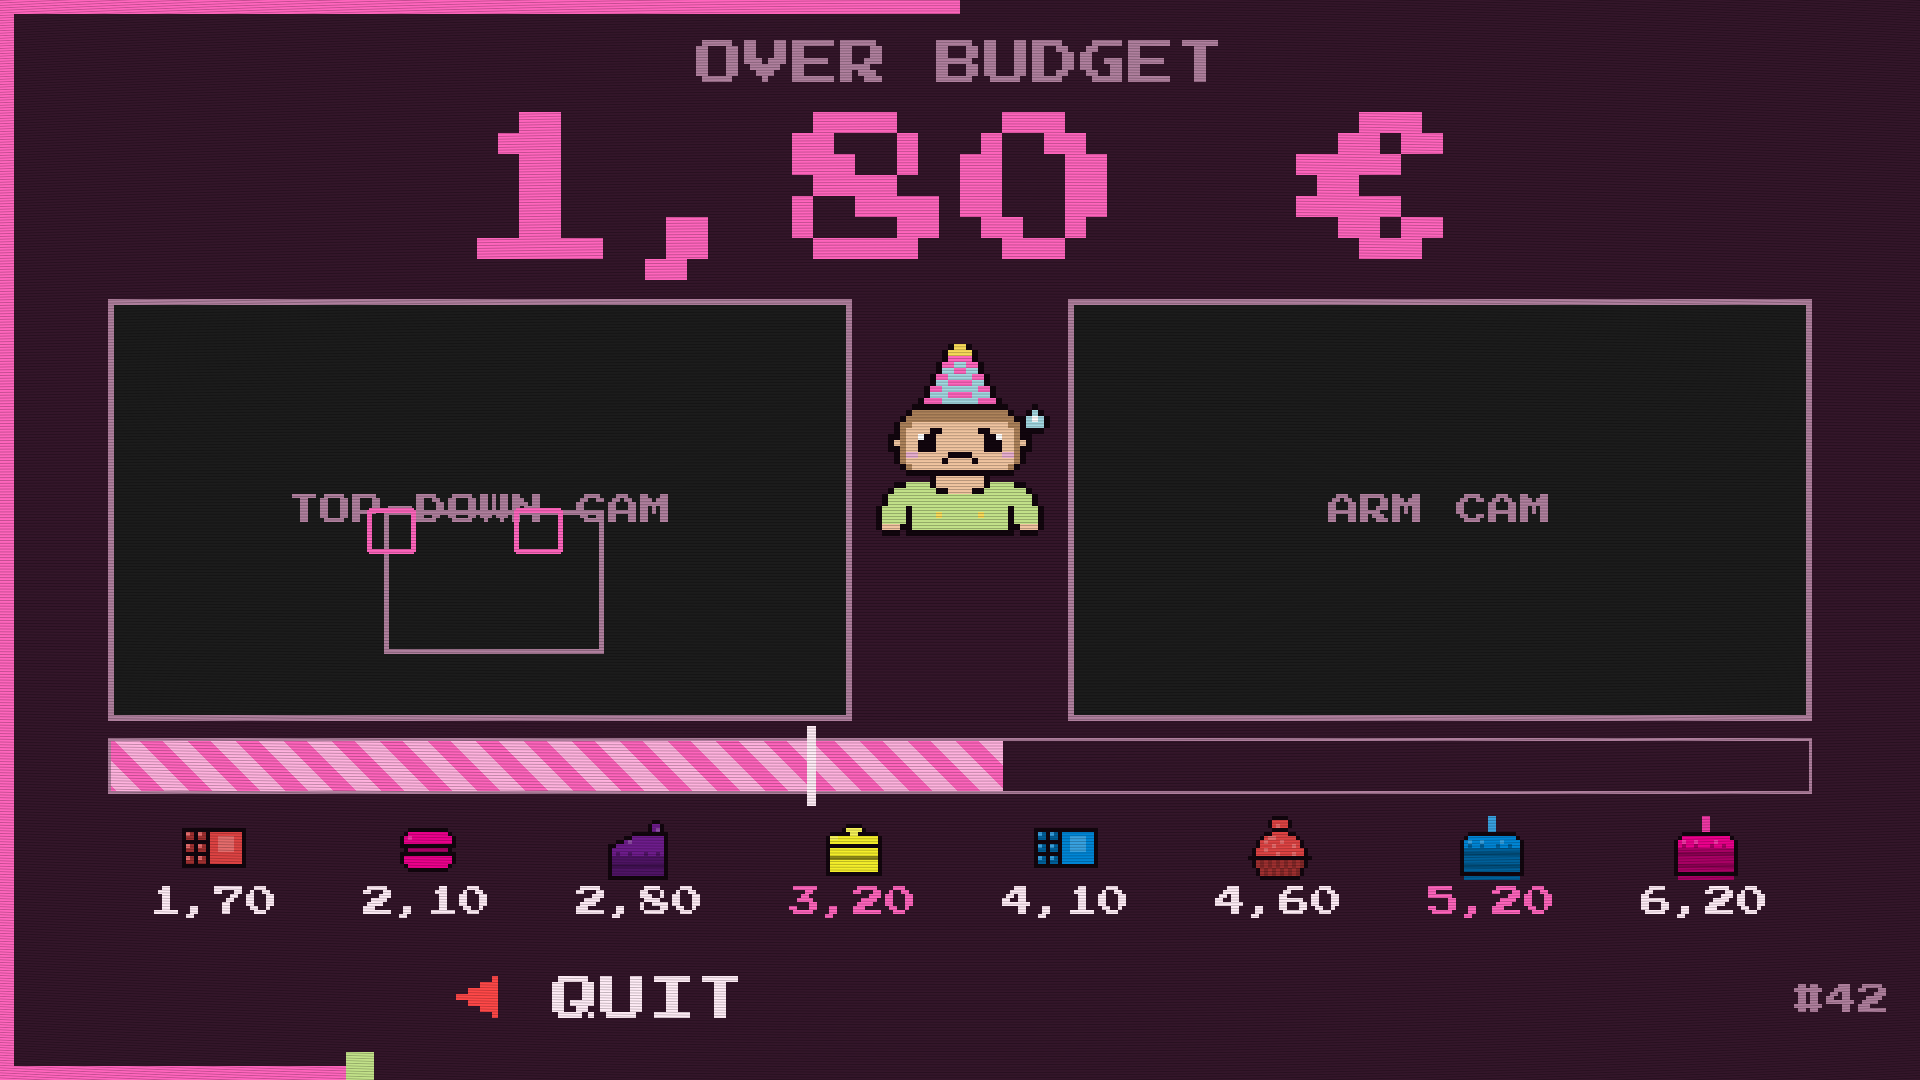
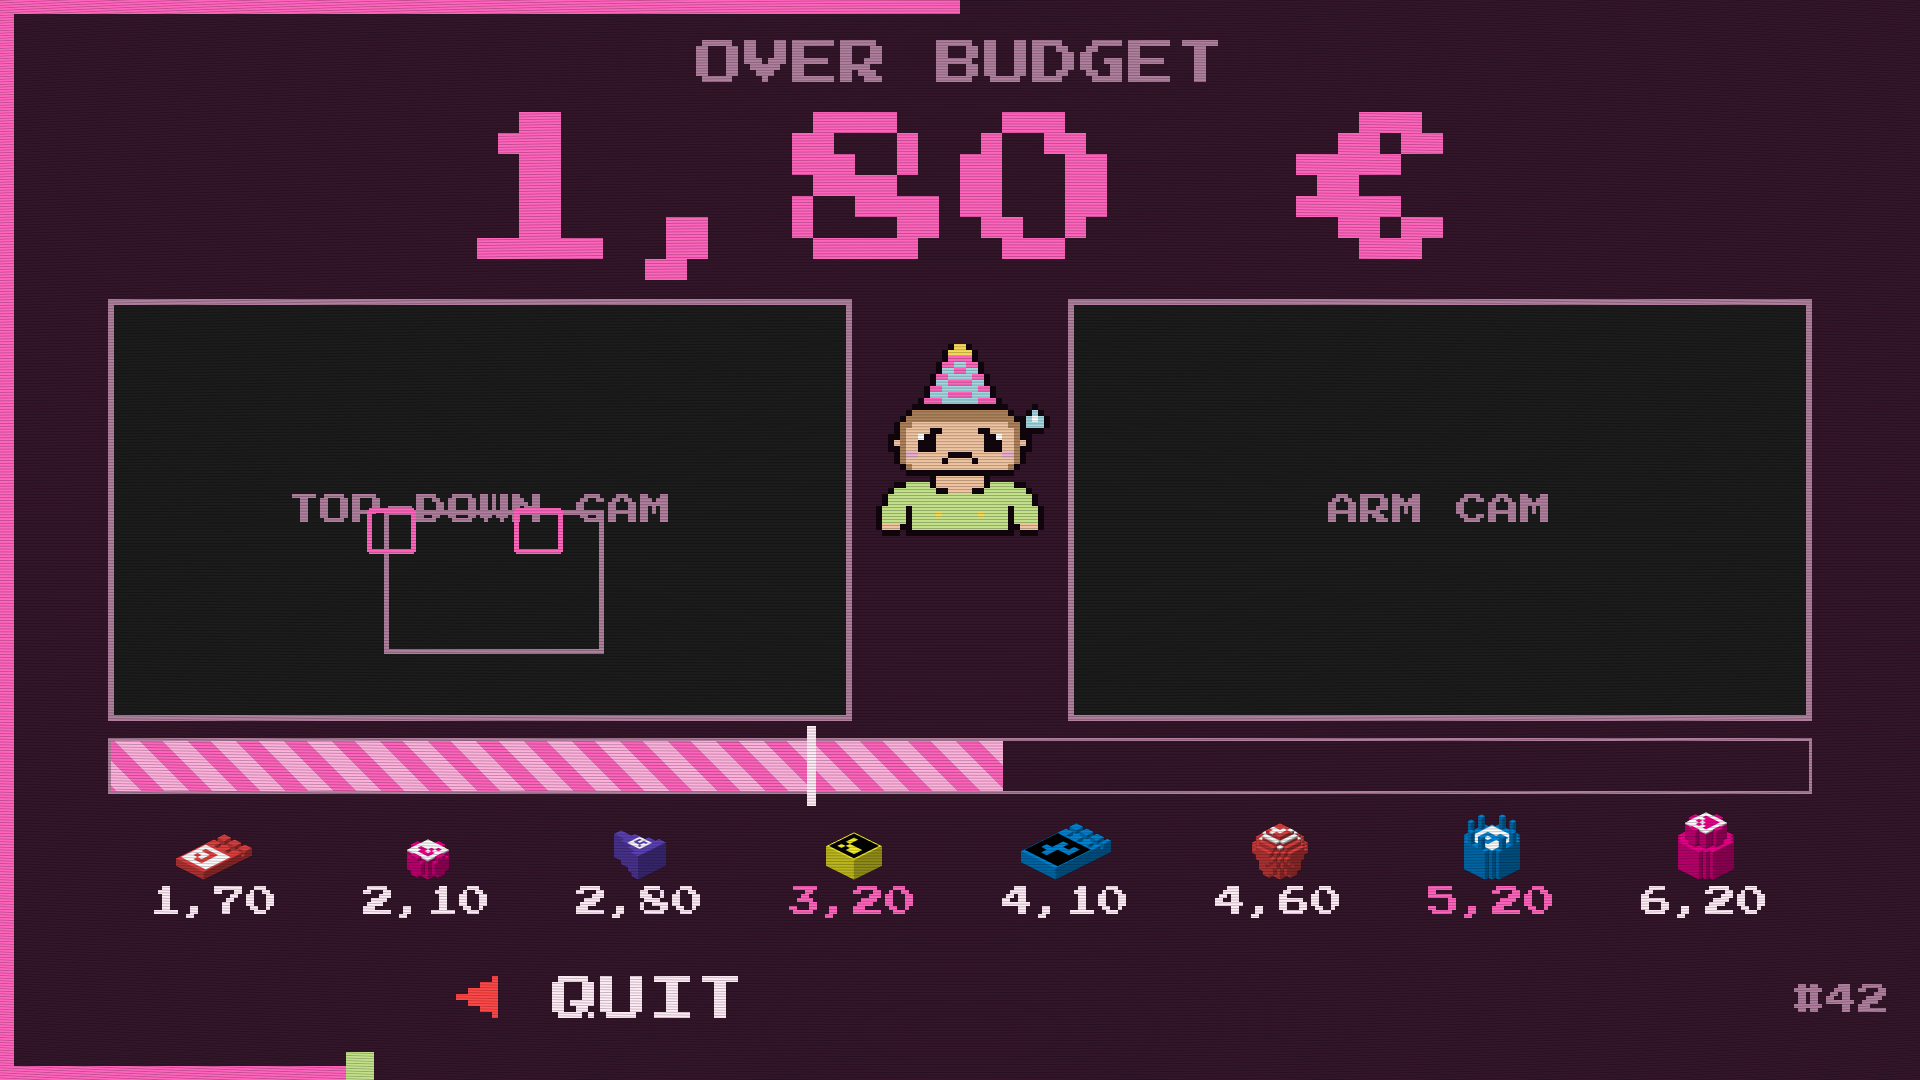
feat: price ladder, strip and pop-up show the printed treats as voxel pictures (tools/treat_pics.py), marker included

diff --git a/tools/nachdruck.py b/tools/nachdruck.py
@@ -47,101 +47,116 @@ SET = {
     "riegel_gross": (lambda: bar_big("a", "a"), "blue", "charcoal", 7, "h2c"),
     "bonbon":       (lambda: bonbon("a"), "grass_green", "charcoal", 4, "h2c"),
 }
+# Search region: the marker must stay on one level, not spill down a cone or
+# off the top tier onto the ledge 20 mm below.
+REGION = {"riegel_gross": X > -3, "torte_gross": disc(3.6), "cup_vanille": disc(3.6)}
+
+
+def register():
+    """SET into voxel's TREATS/MARKERS, so marked() builds each as printed.
+    tools/treat_pics.py needs the same, which is why this isn't script code."""
+    for name, (plan, body, cell, mid, _) in SET.items():
+        v.TREATS[name] = lambda plan=plan, body=body: solid(plan(), body)
+        v.MARKERS[name] = (mid, cell, body, REGION.get(
+            name, v.MARKERS[name][3] if name in v.MARKERS else None))
+
+
 # AMS slot order per plate
 PRINTERS = {"x1c_pink": ["hot_pink", "ivory"],
             "x1c_red": ["scarlet", "ivory"],
             "h2c": ["charcoal", "yellow", "blue", "grass_green"]}
 
-out, printer = sys.argv[1], sys.argv[2]
-EXT = PRINTERS[printer]
-plate = {k: t for k, t in SET.items() if t[4] == printer}
-objs, items, cfg, oid, grids = [], [], [], 0, {}
-for i, (name, (plan, body, cell, mid, _)) in enumerate(plate.items()):
-    px, py = 128 + (i - (len(plate) - 1) / 2) * 90, 128     # one row, 90 mm apart
-    v.TREATS[name] = lambda plan=plan, body=body: solid(plan(), body)
-    # Search region: the marker must stay on one level, not spill down a cone or
-    # off the top tier onto the ledge 20 mm below.
-    region = {"riegel_gross": X > -3, "torte_gross": disc(3.6), "cup_vanille": disc(3.6)}.get(
-        name, v.MARKERS.get(name, (0, 0, 0, None))[3] if name in v.MARKERS else None)
-    v.MARKERS[name] = (mid, cell, body, region)
-    g, c = marked(name)
-    assert found(g, mid), name
-    full = g != ""
-    print(f"{name:12} #{mid:<2} {body:8}/{cell:8} marker {6*c} mm  "
-          f"{full.any(axis=(1,2)).sum()*FINE:.0f}x{full.any(axis=(0,2)).sum()*FINE:.0f}x{g.shape[2]*FINE:.0f} mm  "
-          f"{full.sum()*FINE**3/1000:.0f} cm3")
-    grids[name] = g
-    parts = []
-    for fil in sorted(set(g[full])):
+
+def main():
+    register()
+    out, printer = sys.argv[1], sys.argv[2]
+    EXT = PRINTERS[printer]
+    plate = {k: t for k, t in SET.items() if t[4] == printer}
+    objs, items, cfg, oid, grids = [], [], [], 0, {}
+    for i, (name, (plan, body, cell, mid, _)) in enumerate(plate.items()):
+        px, py = 128 + (i - (len(plate) - 1) / 2) * 90, 128     # one row, 90 mm apart
+        g, c = marked(name)
+        assert found(g, mid), name
+        full = g != ""
+        print(f"{name:12} #{mid:<2} {body:8}/{cell:8} marker {6*c} mm  "
+              f"{full.any(axis=(1,2)).sum()*FINE:.0f}x{full.any(axis=(0,2)).sum()*FINE:.0f}x{g.shape[2]*FINE:.0f} mm  "
+              f"{full.sum()*FINE**3/1000:.0f} cm3")
+        grids[name] = g
+        parts = []
+        for fil in sorted(set(g[full])):
+            oid += 1
+            tris = mesh(g == fil)[0]
+            vv, idx = __import__("numpy").unique(tris.reshape(-1, 3), axis=0, return_inverse=True)
+            vv -= [N * VOX / 2, N * VOX / 2, 0]
+            objs.append(f'<object id="{oid}" type="model"><mesh><vertices>'
+                        + "".join(f'<vertex x="{a:g}" y="{b:g}" z="{c_:g}"/>' for a, b, c_ in vv)
+                        + "</vertices><triangles>"
+                        + "".join(f'<triangle v1="{a}" v2="{b}" v3="{c_}"/>' for a, b, c_ in idx.reshape(-1, 3))
+                        + "</triangles></mesh></object>")
+            parts.append((oid, fil))
         oid += 1
-        tris = mesh(g == fil)[0]
-        vv, idx = __import__("numpy").unique(tris.reshape(-1, 3), axis=0, return_inverse=True)
-        vv -= [N * VOX / 2, N * VOX / 2, 0]
-        objs.append(f'<object id="{oid}" type="model"><mesh><vertices>'
-                    + "".join(f'<vertex x="{a:g}" y="{b:g}" z="{c_:g}"/>' for a, b, c_ in vv)
-                    + "</vertices><triangles>"
-                    + "".join(f'<triangle v1="{a}" v2="{b}" v3="{c_}"/>' for a, b, c_ in idx.reshape(-1, 3))
-                    + "</triangles></mesh></object>")
-        parts.append((oid, fil))
-    oid += 1
-    objs.append(f'<object id="{oid}" type="model"><components>'
-                + "".join(f'<component objectid="{k}"/>' for k, _ in parts) + "</components></object>")
-    items.append(f'<item objectid="{oid}" transform="1 0 0 0 1 0 0 0 1 {px} {py} 0" printable="1"/>')
-    unit = "1 0 0 0 0 1 0 0 0 0 1 0 0 0 0 1"
-    cfg.append(f'<object id="{oid}"><metadata key="name" value="{name}_{mid}"/><metadata key="extruder" value="1"/>\n'
-               + "".join(f'<part id="{k}" subtype="normal_part"><metadata key="name" value="{f}"/>'
-                         f'<metadata key="matrix" value="{unit}"/><metadata key="extruder" value="{EXT.index(f) + 1}"/></part>\n'
-                         for k, f in parts) + "</object>\n")
-    cfg_ids = [int(o.split('"')[1]) for o in cfg]
+        objs.append(f'<object id="{oid}" type="model"><components>'
+                    + "".join(f'<component objectid="{k}"/>' for k, _ in parts) + "</components></object>")
+        items.append(f'<item objectid="{oid}" transform="1 0 0 0 1 0 0 0 1 {px} {py} 0" printable="1"/>')
+        unit = "1 0 0 0 0 1 0 0 0 0 1 0 0 0 0 1"
+        cfg.append(f'<object id="{oid}"><metadata key="name" value="{name}_{mid}"/><metadata key="extruder" value="1"/>\n'
+                   + "".join(f'<part id="{k}" subtype="normal_part"><metadata key="name" value="{f}"/>'
+                             f'<metadata key="matrix" value="{unit}"/><metadata key="extruder" value="{EXT.index(f) + 1}"/></part>\n'
+                             for k, f in parts) + "</object>\n")
+        cfg_ids = [int(o.split('"')[1]) for o in cfg]
 
-model = ('<?xml version="1.0" encoding="UTF-8"?>\n<model unit="millimeter" xml:lang="en-US" '
-         'xmlns="http://schemas.microsoft.com/3dmanufacturing/core/2015/02" '
-         'xmlns:BambuStudio="http://schemas.bambulab.com/package/2021">\n'
-         '<metadata name="Application">BambuStudio-02.07.01.62</metadata>\n'
-         '<metadata name="Title">nachdruck</metadata>\n'
-         f'<resources>{"".join(objs)}</resources>\n<build>{"".join(items)}</build>\n</model>\n')
-settings = ('<?xml version="1.0" encoding="UTF-8"?>\n<config>\n' + "".join(cfg)
-            + '<plate><metadata key="plater_id" value="1"/><metadata key="locked" value="false"/>'
-            + "".join(f'<model_instance><metadata key="object_id" value="{i}"/><metadata key="instance_id" value="0"/></model_instance>'
-                      for i in cfg_ids) + '</plate>\n</config>\n')
-project = json.dumps({"filament_colour": [hexcol(f) for f in EXT],
-                      "filament_settings_id": ["Bambu PLA Matte @BBL X1C"] * len(EXT),
-                      "filament_type": ["PLA"] * len(EXT), "version": "02.07.01.62"}, indent=4)
-with zipfile.ZipFile(out, "w", zipfile.ZIP_DEFLATED) as z:
-    z.writestr("[Content_Types].xml",
-               '<?xml version="1.0" encoding="UTF-8"?>\n<Types xmlns="http://schemas.openxmlformats.org/package/2006/content-types">'
-               '<Default Extension="rels" ContentType="application/vnd.openxmlformats-package.relationships+xml"/>'
-               '<Default Extension="model" ContentType="application/vnd.ms-package.3dmanufacturing-3dmodel+xml"/>'
-               '<Default Extension="config" ContentType="text/xml"/></Types>')
-    z.writestr("_rels/.rels",
-               '<?xml version="1.0" encoding="UTF-8"?>\n<Relationships xmlns="http://schemas.openxmlformats.org/package/2006/relationships">'
-               '<Relationship Target="/3D/3dmodel.model" Id="rel0" '
-               'Type="http://schemas.microsoft.com/3dmanufacturing/2013/01/3dmodel"/></Relationships>')
-    z.writestr("3D/3dmodel.model", model)
-    z.writestr("Metadata/model_settings.config", settings)
-    z.writestr("Metadata/project_settings.config", project)
-print("wrote", out)
+    model = ('<?xml version="1.0" encoding="UTF-8"?>\n<model unit="millimeter" xml:lang="en-US" '
+             'xmlns="http://schemas.microsoft.com/3dmanufacturing/core/2015/02" '
+             'xmlns:BambuStudio="http://schemas.bambulab.com/package/2021">\n'
+             '<metadata name="Application">BambuStudio-02.07.01.62</metadata>\n'
+             '<metadata name="Title">nachdruck</metadata>\n'
+             f'<resources>{"".join(objs)}</resources>\n<build>{"".join(items)}</build>\n</model>\n')
+    settings = ('<?xml version="1.0" encoding="UTF-8"?>\n<config>\n' + "".join(cfg)
+                + '<plate><metadata key="plater_id" value="1"/><metadata key="locked" value="false"/>'
+                + "".join(f'<model_instance><metadata key="object_id" value="{i}"/><metadata key="instance_id" value="0"/></model_instance>'
+                          for i in cfg_ids) + '</plate>\n</config>\n')
+    project = json.dumps({"filament_colour": [hexcol(f) for f in EXT],
+                          "filament_settings_id": ["Bambu PLA Matte @BBL X1C"] * len(EXT),
+                          "filament_type": ["PLA"] * len(EXT), "version": "02.07.01.62"}, indent=4)
+    with zipfile.ZipFile(out, "w", zipfile.ZIP_DEFLATED) as z:
+        z.writestr("[Content_Types].xml",
+                   '<?xml version="1.0" encoding="UTF-8"?>\n<Types xmlns="http://schemas.openxmlformats.org/package/2006/content-types">'
+                   '<Default Extension="rels" ContentType="application/vnd.openxmlformats-package.relationships+xml"/>'
+                   '<Default Extension="model" ContentType="application/vnd.ms-package.3dmanufacturing-3dmodel+xml"/>'
+                   '<Default Extension="config" ContentType="text/xml"/></Types>')
+        z.writestr("_rels/.rels",
+                   '<?xml version="1.0" encoding="UTF-8"?>\n<Relationships xmlns="http://schemas.openxmlformats.org/package/2006/relationships">'
+                   '<Relationship Target="/3D/3dmodel.model" Id="rel0" '
+                   'Type="http://schemas.microsoft.com/3dmanufacturing/2013/01/3dmodel"/></Relationships>')
+        z.writestr("3D/3dmodel.model", model)
+        z.writestr("Metadata/model_settings.config", settings)
+        z.writestr("Metadata/project_settings.config", project)
+    print("wrote", out)
 
-import pygame                                            # preview next to the 3MF
-tiles = [v.iso(g, 8 / v.SUB) for g in grids.values()]
-tiles = [t.subsurface(t.get_bounding_rect()) for t in tiles]
-sheet = pygame.Surface((sum(t.get_width() for t in tiles) + 40 * len(tiles), max(t.get_height() for t in tiles) + 40))
-sheet.fill(v.BG); x = 20
-for t in tiles:
-    sheet.blit(t, (x, sheet.get_height() - 20 - t.get_height())); x += t.get_width() + 40
-pygame.image.save(sheet, out.replace(".3mf", ".png"))
+    import pygame                                            # preview next to the 3MF
+    tiles = [v.iso(g, 8 / v.SUB) for g in grids.values()]
+    tiles = [t.subsurface(t.get_bounding_rect()) for t in tiles]
+    sheet = pygame.Surface((sum(t.get_width() for t in tiles) + 40 * len(tiles), max(t.get_height() for t in tiles) + 40))
+    sheet.fill(v.BG); x = 20
+    for t in tiles:
+        sheet.blit(t, (x, sheet.get_height() - 20 - t.get_height())); x += t.get_width() + 40
+    pygame.image.save(sheet, out.replace(".3mf", ".png"))
 
-# Height spread of the marker cells. The cupcake cones reach 10-15 mm, which
-# the 2026-09-11 simulation allows in the tray's middle (todo.md, cone limit).
-for name, g in grids.items():
-    z = np.argwhere(g == plate[name][2])[:, 2] * FINE
-    print(f"{name:12} marker cells span {z.max() - z.min():.0f} mm in height")
+    # Height spread of the marker cells. The cupcake cones reach 10-15 mm, which
+    # the 2026-09-11 simulation allows in the tray's middle (todo.md, cone limit).
+    for name, g in grids.items():
+        z = np.argwhere(g == plate[name][2])[:, 2] * FINE
+        print(f"{name:12} marker cells span {z.max() - z.min():.0f} mm in height")
 
-# Colour changes: layers (0.2 mm) that need more than one filament, and how
-# many filaments each of those has. The slicer changes k-1 times per layer.
-layers = {}
-for g in grids.values():
-    for z in range(g.shape[2]):
-        layers.setdefault(z, set()).update(set(g[:, :, z][g[:, :, z] != ""]))
-changes = sum(max(len(f) - 1, 0) for f in layers.values()) * round(FINE / 0.2)
-print(f"{printer}: {changes} filament changes at 0.2 mm layers")
+    # Colour changes: layers (0.2 mm) that need more than one filament, and how
+    # many filaments each of those has. The slicer changes k-1 times per layer.
+    layers = {}
+    for g in grids.values():
+        for z in range(g.shape[2]):
+            layers.setdefault(z, set()).update(set(g[:, :, z][g[:, :, z] != ""]))
+    changes = sum(max(len(f) - 1, 0) for f in layers.values()) * round(FINE / 0.2)
+    print(f"{printer}: {changes} filament changes at 0.2 mm layers")
+
+
+if __name__ == "__main__":
+    main()

diff --git a/game/scenes.py b/game/scenes.py
@@ -1,4 +1,5 @@
 import math
+import os
 import random
 import textwrap
 import pygame
@@ -113,6 +114,46 @@ def stamp(screen, name, scale, x, y):
     layout self-test can intercept it the same way and check for overlap."""
     s = sprite(name, scale)
     screen.blit(s, s.get_rect(center=(round(x), round(y))))
+
+
+TREAT_DIR = os.path.join(os.path.dirname(__file__), "assets", "treats")
+
+
+@lru_cache(maxsize=None)
+def _prints():
+    """The printed treats as voxel pictures (tools/treat_pics.py), by marker id."""
+    out = {}
+    for k in SPRITE:
+        try:
+            out[k] = pygame.image.load(os.path.join(TREAT_DIR, f"{k}.png"))
+        except (pygame.error, FileNotFoundError):
+            pass     # pic() falls back to the sprite
+    return out
+
+
+@lru_cache(maxsize=64)
+def _print(k, w, h):
+    """Picture #k, scaled by the ONE factor that fits the largest print of
+    the set into w x h. A shared factor keeps the torte bigger than the
+    macaron -- heavier is dearer, readable without the price."""
+    imgs = _prints()
+    f = min(w / max(i.get_width() for i in imgs.values()),
+            h / max(i.get_height() for i in imgs.values()))
+    i = imgs[k]
+    return pygame.transform.smoothscale(i, (round(i.get_width() * f), round(i.get_height() * f)))
+
+
+def pic(screen, k, w, h, x, bottom, scale):
+    """Treat #k standing on the line `bottom`, centered on x: the printed
+    object, where the visitor has to find it on the table (price ladder,
+    strip, pop-up). The sprite at `scale` if its picture is missing."""
+    if k not in _prints():
+        n = len(SHAPES[SPRITES[SPRITE[k]][0]]) * scale
+        return stamp(screen, SPRITE[k], scale, x, bottom - n / 2)
+    s = _print(k, w, h)
+    r = s.get_rect(midbottom=(round(x), round(bottom)))
+    screen.blit(s, r)
+    area(SPRITE[k], r)
 
 
 def area(name, rect):
@@ -964,7 +1005,7 @@ class GameScene(SceneBase):
             # One pop-up per change, with the net price: two treats at once
             # show "+5,10", not two boxes on top of each other.
             v = sum(VALUES[i] for i in new) - sum(VALUES[i] for i in gone)
-            self.pop = [SPRITE[min(new or gone)],
+            self.pop = [min(new or gone),
                         ("+" if v >= 0 else "-") + euro(abs(v), sign=False), 0.0]
             self.still = 0.0
             self.log("tray", add=sorted(new), off=sorted(gone), total=tray_sum(marks),
@@ -1120,8 +1161,8 @@ class GameScene(SceneBase):
         blink = int(self.clock * 4) % 2
         for i, k in enumerate(sorted(VALUES, key=VALUES.get)):
             x = self.BAR.x + self.BAR.w * (i + 0.5) / len(VALUES)
-            stamp(screen, SPRITE[k], 4, x,
-                  self.STRIP_Y + (hop(self.clock, 0, 8) if k == hint else 0))
+            pic(screen, k, 190, 68, x, self.STRIP_Y + 32
+                + (hop(self.clock, 0, 8) if k == hint else 0), 4)
             # The hinted price blinks along with the hop: 8 px alone was too
             # subtle to catch from the leader arm.
             color = ACCENT if k in self.marks else WHITE
@@ -1140,7 +1181,8 @@ class GameScene(SceneBase):
             n = per if row == 0 else len(order) - per
             x = WIDTH * (col + 0.5) / n
             y = self.LADDER_Y + row * self.LADDER_ROW
-            stamp(screen, SPRITE[k], 5, x, y)
+            # Standing on one line, so bigger print = bigger picture reads
+            pic(screen, k, 300, 110, x, y + 40, 5)
             draw(screen, f["small"], euro(VALUES[k], sign=False), x, y + 90, WHITE)
 
     def _x(self, value):
@@ -1208,9 +1250,9 @@ class GameScene(SceneBase):
         if self.phase == "play":    # in "order" his face is in the dialog
             stamp(screen, self.mood(), 6, *self.GUEST)
         if self.pop and not reading:    # would sit on the ladder / Bella
-            name, text, age = self.pop
+            k, text, age = self.pop
             rise = round(age * 20)
-            stamp(screen, name, 4, self.POP[0], self.POP[1] - rise)
+            pic(screen, k, 120, 80, self.POP[0], self.POP[1] + 32 - rise, 4)
             draw(screen, f["tiny"], text, self.POP[0], self.POP[1] + 58 - rise, ACCENT)
         if self.phase == "order":
             fuse(screen, max(0.0, self.think / THINK_SECONDS) if THINK_SECONDS else 0.0,

diff --git a/tools/treat_pics.py b/tools/treat_pics.py
@@ -1,0 +1,41 @@
+"""The printed treats as pictures for the price ladder, strip and pop-up.
+
+    uv run tools/treat_pics.py          # -> game/assets/treats/<marker id>.png
+
+The sprites were a drawing of the treat, and the visitor had to match the
+drawing to the object in their hand -- one layer too many. These are the
+objects themselves: the same voxel plans the printers got (tools/voxel.py,
+tools/nachdruck.py), marker included, because the white or black field on
+top is what tells the red bar from the red cupcake.
+
+All pictures share one scale (PX per voxel), so a bigger print is a bigger
+picture: heavier is dearer stays visible. The game scales them all by one
+factor. Takes a minute (marked() searches the largest readable marker), so
+it runs here and the PNGs go into git.
+"""
+import os
+import sys
+
+sys.path.insert(0, os.path.dirname(__file__))
+import pygame                       # noqa: E402  voxel sets the dummy driver
+import voxel as v                   # noqa: E402
+import nachdruck                    # noqa: E402
+
+# Marker id -> the plan it was printed from. Everything in the theme's SPRITE,
+# including the retired ones, so switching one back on needs no new picture.
+PRINTED = {1: "riegel", 0: "macaron", 6: "stueck_erdbeer", 2: "petitfour",
+           7: "riegel_gross", 5: "cup_vanille", 9: "torte_erdbeer", 8: "torte_gross",
+           4: "bonbon", 10: "cup_mini", 11: "cup_blaubeer"}
+PX = 2      # px per 1 mm cell, 10 per voxel: the game only ever scales down
+
+if __name__ == "__main__":
+    out = os.path.join(os.path.dirname(__file__), "..", "game", "assets", "treats")
+    os.makedirs(out, exist_ok=True)
+    nachdruck.register()
+    for mid, name in PRINTED.items():
+        g, _ = v.marked(name)
+        assert v.MARKERS[name][0] == mid, (name, v.MARKERS[name][0], mid)
+        img = v.iso(g, PX)
+        img = img.subsurface(img.get_bounding_rect())
+        pygame.image.save(img, os.path.join(out, f"{mid}.png"))
+        print(f"#{mid:<2} {name:15} {img.get_width()}x{img.get_height()}")

diff --git a/tools/shots.py b/tools/shots.py
@@ -168,7 +168,7 @@ def shots(out):
         ("6b-go",          order, dict(phase="go", dialog=None, go=2.4)),
         ("7-game-add",     game, dict(play, left=ROUND_SECONDS * 0.7, clock=0.3,
                                       marks={9: quad(.45)}, total=V[9], target=66,
-                                      pop=[SPRITE[9], "+" + scenes.euro(V[9], sign=False), 0.4])),
+                                      pop=[9, "+" + scenes.euro(V[9], sign=False), 0.4])),
         ("8-game-hint",    game, dict(pop=None, still=99.0, left=FUSE_PULSE * 0.6,
                                       clock=0.3)),
         ("9-game-over",    game, dict(still=0.0, left=ROUND_SECONDS * 0.4,
